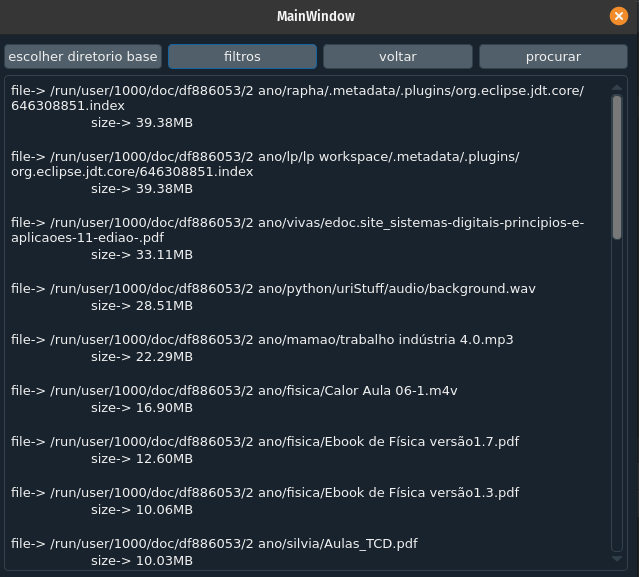
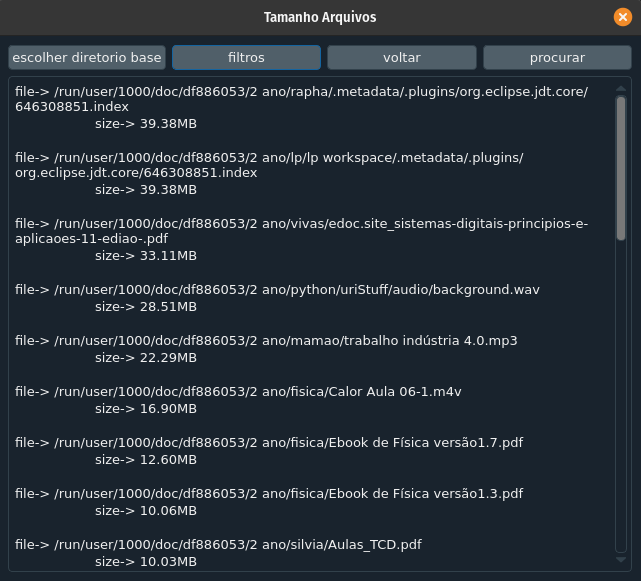
darkMode

Changed region(s): [[0.0, 0.0, 1.0, 0.9983], [0.9515, 0.0, 0.9812, 0.0624]]

diff --git a/src/windows/tamanhoArquivos.py b/src/windows/tamanhoArquivos.py
@@ -204,7 +204,7 @@ class Ui_MainWindow(object):
 
     def retranslateUi(self, MainWindow):
         _translate = QtCore.QCoreApplication.translate
-        MainWindow.setWindowTitle(_translate("MainWindow", "MainWindow"))
+        MainWindow.setWindowTitle(_translate("MainWindow", "Tamanho Arquivos"))
         self.voltar.setText(_translate("MainWindow", "voltar"))
         self.btn_procurar.setText(_translate("MainWindow", "procurar"))
         self.btn_filtros.setText(_translate("MainWindow", "filtros"))
